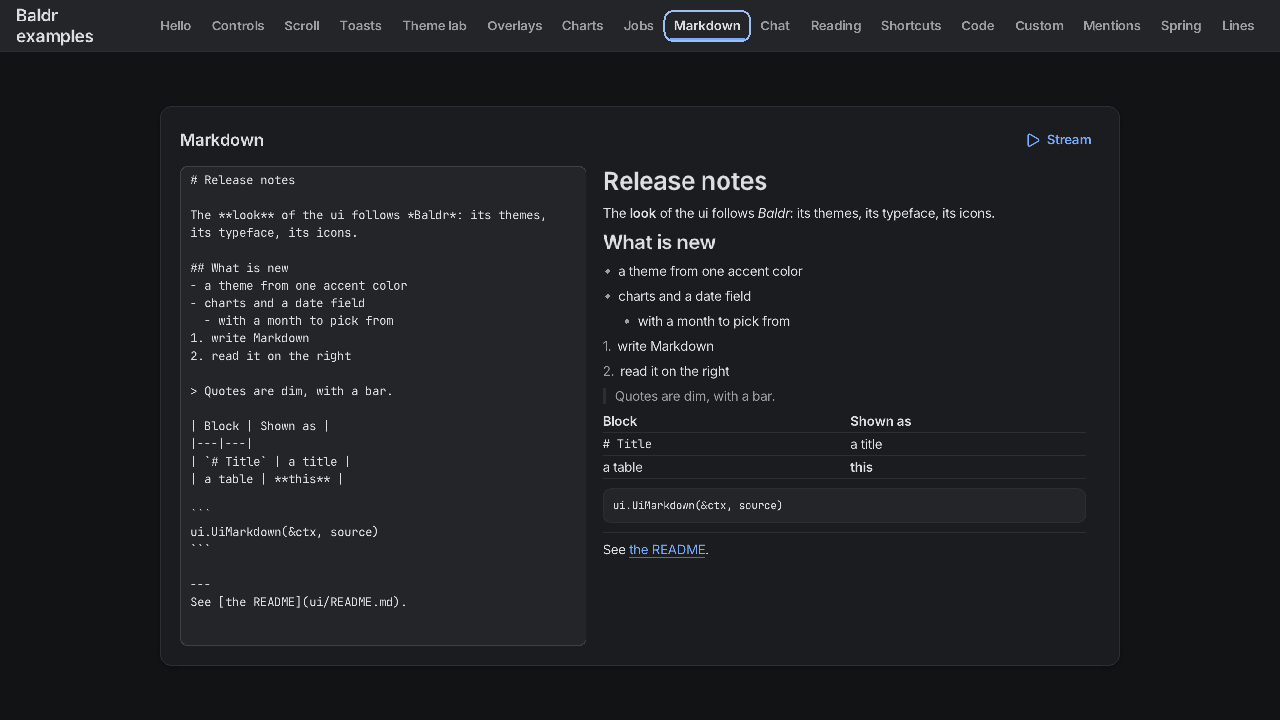
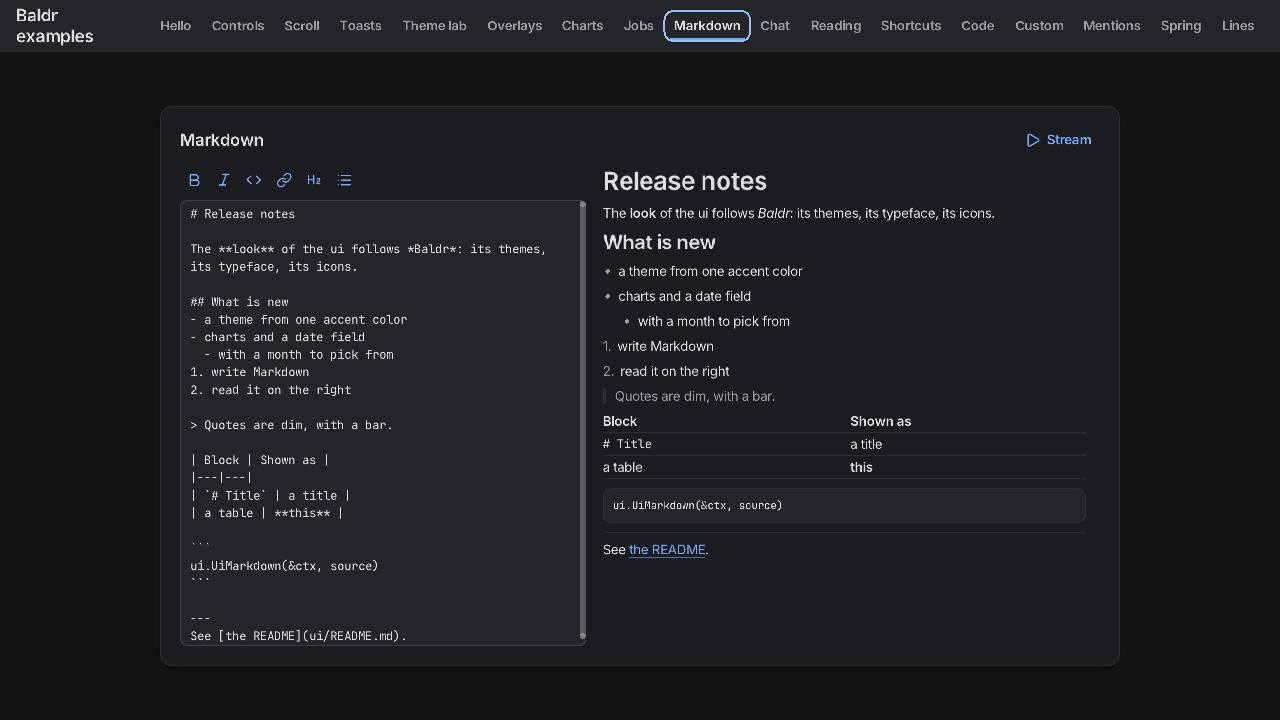
ui: editing commands for a text (UiTextWrap, UiTextLinePrefix), Baldr's rich editor as a toolbar
What the buttons of an editor do to the text of a text area or field from outside of it:
UiTextWrap puts marks around the selection (around the cursor when nothing is selected) and takes
them away when they are there, UiTextLinePrefix does the same at the start of the line of the
cursor, UiTextSelectionOf gives the selection. The widget gets the focus back and the change is a
step of its undo history.

The Markdown tab of the examples has the buttons Bold, Italic, Code, Link, Heading and List over
its source: the document is the Markdown text, the view next to it shows the result.

Claude-Session: https://claude.ai/code/session_01VmEee8L8hufaEg5kRznT4c

diff --git a/CLAUDE.md b/CLAUDE.md
@@ -98,7 +98,7 @@ Stale build outputs in a library folder (`demo.exe`, `*.pdb`, `log.txt`) are git
 
 ## ui library layout
 - Immediate mode ui, layout ported from Clay (MIT, credited in README). Core files: `context.odin` (Storage, UiInit/Begin/End, widget state in a `Static_Handle_Map` of `UI_STATES`), `layout.odin` (Clay port: sizing, floating, clip, text wrap), `widgets.odin` (`Ui*` widgets, containers are `if UiPanel(...) {}` blocks through `@(deferred_in)`), `widgets_more.odin` (collapsing/tree, radio, selectable, tabs, drag, inputs, plots, color, menus, modal, titled window), `style.odin` (`StyleKind`, `DrawInfo` with rect + value 0..1 + name + actual, `Style` table of user procs), `render.odin` (`UiRender` only calls the style procs, so the ui shares the batch of the frame), `nav.odin` (focus by direction and the default actions of Godot: `ui.Action` ACCEPT/CANCEL/FOCUS_NEXT/UP../HOME/END/PAGE_*, set in `Input.actions` by the glue and applied in `UiBegin`; `UiNavigate`, `UiActivate`, `UiCancelled`, `UiNavLink/UiNavBlock` overrides, scroll into view, input agnostic), `rounded.odin` (radius as part of the shortest side, polygon into a caller buffer), `resize.odin` (`UiSplit` / `UiSplitFirst` / `UiSplitSecond`: two sections and the handle between them, side by side or stacked, the proportion kept by the split; `UiWindowResizable`: a window resized by its edges and corners that keeps its own position and size; `HitKind.NO_FOCUS`, `Clip.cut`, `Decl.absolute`: a child out of the flow at an offset, not a root). Node graph: `graph.odin` (model: `Graph` with nodes, ports, links, zip ties in handle maps, rules, events with user pointers, `GraphOrder`, `GraphCompile` buffer plan), `graph_cable.odin` (routes, bounds, distance, crossings, tie geometry), `graph_style.odin` (`GraphStyle`: routing/bounds/distance/draw procs), `tree.odin` (`Tree` model + `UiTree` over the virtual list), `inspector.odin` (`UiInspector`: element tree, usage, picking), `virtual.odin` (`UiVirtual` list and `UiTable`: only the rows in view are declared), `timeline.odin` + `timeline_widgets.odin` + `timeline_style.odin` (`UiTimeline`: tracks and clips model, rules, events, ruler, playhead; style procs in `default_style/timeline.odin`), `timeline_curve.odin` (shapes of the curve between automation points), `timeline_automation.odin` (plan + block renderer for the audio thread), `timeline_points_edit.odin` (flip, mirror, rotate, repeat, stretch lives in timeline.odin), `timeline_history.odin` (undo and redo snapshots), `measure.odin` (cache of text sizes: every measure goes through `measureText`), `textarea.odin` (`UiTextArea`: rows, wrap, vertical movement), `accessibility.odin` (`UiAccessNodes`/`UiAccessDescribe`: the last frame as roles, names and states), `widgets_combo.odin` (`UiCombo`: a dropdown with a search field), `colorpicker.odin` (`UiColorPicker`, HSV and hex helpers; drawn by `default_style/color.odin`), `textundo.odin` (undo and redo of the focused text field and area), `textedit.odin` (selection, words, clipboard of the text field; `Input.modifiers`, actions COPY/CUT/PASTE/SELECT_ALL), `Decl.zoom` + `Style.zoom` (a container zoomed around its corner, `Painter.offset`), UI scale: `Painter.scale` in `default_style` (layout and styles in logical units, the glues scale drawing and divide the pointer; `InputPoll(scale)`), `widgets_audio.odin` (`UiKnob`, `UiFader`, `UiMeter`; style kinds KNOB/FADER/METER), `dock.odin` (`Dock` layout as plain data, `UiDock`: tabs and splits moved by dragging a tab), `graph_history.odin` (`GraphHistory`: undo and redo snapshots, `graph.serial`), `graph_layout.odin` (`GraphAutoLayout`), `graph_widgets.odin` (`UiGraph`, `UiGraphNode`, `UiGraphPin`, `UiGraphMinimap`, cuts and ties), `default_style/graph.odin`, `graph_test.odin`, `demo_common/demo_graph.odin`.
-- The look follows Baldr (github.com/BuLEEto/Baldr, zlib, credited in `default_style/default_style.odin` and the README; no code of it): `THEME_DARK` / `THEME_LIGHT` (the output of `ThemeFromAccent` for Baldr's blue: a test keeps the constants equal to the generator; the same pixels as its gallery pictures), `theme_make.odin` (`ThemeFromAccent(color, dark)`: a port of Baldr's `theme_from_seed`, marked as altered as zlib asks; `ColorFromOklch` / `ColorToOklch` / `ColorContrast`; colors that sRGB does not have lose chroma, they are not clamped; tests in `theme_make_test.odin`: `odin test ui/default_style`), `Face` (REGULAR, STRONG, ITALIC, MONO: the style sets `painter.face`, the glue draws Inter / JetBrains Mono), `painter.draw_icon` (Lucide through the `icons` library, `ui_default.LucideIcon(.SAVE)` is a `ui.Icon`; numbers from 0x1000), button variants by tag ("primary", "secondary", "outline", "ghost", "danger"), "thin" sliders and progress bars, texts by tag ("title", "dim", "mono": tags reach text elements, and a text is measured with its tags: `ctx.measure_tags` / `UiMeasureHasTag`, the measure cache keys on them, `ui_default.Measure` picks the face with `TagFace`), theme areas (`ThemeAreaSet(&painter, n, theme)` + `UiTagged(ctx, ThemeAreaTag(n))`: a part drawn in its own theme, through `Style.before_draw`, which `UiRender` calls before every draw command), `RingRounded` (focus rings are outlines), `Shadow`, `StateColor` / `StateWash`, `RowBox` (rows are selected in the soft accent so composed rows stay readable). `markdown.odin` (`UiMarkdown(ctx, source)`: headings, wrapped paragraphs, nested lists, quotes, fenced code, rules, tables (`MarkdownTableCell`), read block by block every frame with `MarkdownNext`, inline marks stripped by `MarkdownInline` into the frame text; paragraphs, list entries and quotes are rich text; tests in `markdown_test.odin`), `richtext.odin` (`UiRichText(ctx, name, source, scale, max_width)`: a wrapped paragraph with runs of styles from Markdown marks, lines broken by the widget for last frame's width, one text per run tagged "strong"/"italic"/"mono"/"link"; a link is an INTERACTIVE element, `UiRichText` and `UiMarkdown` return `(address, clicked)`; `RichNext` is the reader; tests in `richtext_test.odin`), `highlight.odin` (`TextHighlight` proc + `TextSpan`: `UiTextArea(..., highlight, highlight_user)` declares a text per span of a row, tagged `SYNTAX_*`; `HighlightCode` with a `HighlightLanguage`, `HIGHLIGHT_ODIN`; a `state` number per row carries block comments and raw strings, kept in the row cache of the area (`areaStates`); colors in `ui_default.SyntaxColor`), `complete.odin` (`UiComplete(ctx, area_name, buffer, &length, items, trigger)` declared BEFORE the `UiTextArea` or `UiTextField` of the same name: a list under the caret (`WidgetState.caret`) of the items that contain the word after the trigger, takes UP/DOWN/ENTER/ESCAPE out of `ctx.input`, rows are NO_FOCUS, sets `own_vertical` while open, pushes an undo step; `CompleteQuery`; tests in `complete_test.odin`), `select.odin` (texts inside of the tag `TEXT_SELECTABLE` are selected by press and drag over lines and texts: `ctx.select` holds two `SelectPoint`s (element index of the frame + byte), `selectAfterLayout` in `UiEnd` finds the line under the pointer and gathers the copy text, `selectLineCommand` in `textCommands` emits TEXT_SELECTION under a line; `UiTextSelected`, `UiTextSelectionClear`; tests in `select_test.odin`), `shortcut.odin` (`Chord`, `ChordFormat`, `UiShortcutField(ctx, name, &chord, pressed, key_name)`: listens after a click, takes the next key the program passes, Escape cancels, Backspace clears; drawn as a BUTTON with the tag "outline" / "primary"; tests in `shortcut_test.odin`), `date.odin` (`Date`, `DateWeekday` with Monday 0, `DateDaysInMonth`, `DateAddMonths`; `UiDateField`: a DROPDOWN box with `icon = .CALENDAR` and a popup of `DATE_CELL`s, the shown month kept in `WidgetState.cursor` as a count of months; `UiTimeField`: a `UiCombo` over the times of a day; tests in `date_test.odin`), `chart.odin` (`UiChart` with a caller owned `ChartView`: LINE, AREA, BAR, SCATTER, round axis steps, nearest point under the pointer, a click picks, the navigation walks; the view keeps the slices of the series, so they have to outlive the frame: keep them in the state, the compiler warns about a local array; look in `default_style/chart.odin` with Baldr's color blind safe palette; tests in `chart_test.odin`). `widgets_extra.odin`: `UiSwitch`, `UiBadge` (`Tone`), `UiChip`, `UiTag`, `UiAvatar`, `UiSegmented`, `UiBreadcrumbs`, `UiSpinner`, `UiTitle`, `UiLabelDim`, `UiCard`, `UiInteract`; `UiButton(..., icon = ...)`, `DrawInfo.icon`; their look in `default_style/extra.odin`, tests in `widgets_extra_test.odin`. `DEFAULT_METRICS` did not change (the scripts of the demos click at numbers of the layout); a text size is the height of its line box, so 16 is Inter at 13 px per em, the label size of Baldr.
+- The look follows Baldr (github.com/BuLEEto/Baldr, zlib, credited in `default_style/default_style.odin` and the README; no code of it): `THEME_DARK` / `THEME_LIGHT` (the output of `ThemeFromAccent` for Baldr's blue: a test keeps the constants equal to the generator; the same pixels as its gallery pictures), `theme_make.odin` (`ThemeFromAccent(color, dark)`: a port of Baldr's `theme_from_seed`, marked as altered as zlib asks; `ColorFromOklch` / `ColorToOklch` / `ColorContrast`; colors that sRGB does not have lose chroma, they are not clamped; tests in `theme_make_test.odin`: `odin test ui/default_style`), `Face` (REGULAR, STRONG, ITALIC, MONO: the style sets `painter.face`, the glue draws Inter / JetBrains Mono), `painter.draw_icon` (Lucide through the `icons` library, `ui_default.LucideIcon(.SAVE)` is a `ui.Icon`; numbers from 0x1000), button variants by tag ("primary", "secondary", "outline", "ghost", "danger"), "thin" sliders and progress bars, texts by tag ("title", "dim", "mono": tags reach text elements, and a text is measured with its tags: `ctx.measure_tags` / `UiMeasureHasTag`, the measure cache keys on them, `ui_default.Measure` picks the face with `TagFace`), theme areas (`ThemeAreaSet(&painter, n, theme)` + `UiTagged(ctx, ThemeAreaTag(n))`: a part drawn in its own theme, through `Style.before_draw`, which `UiRender` calls before every draw command), `RingRounded` (focus rings are outlines), `Shadow`, `StateColor` / `StateWash`, `RowBox` (rows are selected in the soft accent so composed rows stay readable). `markdown.odin` (`UiMarkdown(ctx, source)`: headings, wrapped paragraphs, nested lists, quotes, fenced code, rules, tables (`MarkdownTableCell`), read block by block every frame with `MarkdownNext`, inline marks stripped by `MarkdownInline` into the frame text; paragraphs, list entries and quotes are rich text; tests in `markdown_test.odin`), `richtext.odin` (`UiRichText(ctx, name, source, scale, max_width)`: a wrapped paragraph with runs of styles from Markdown marks, lines broken by the widget for last frame's width, one text per run tagged "strong"/"italic"/"mono"/"link"; a link is an INTERACTIVE element, `UiRichText` and `UiMarkdown` return `(address, clicked)`; `RichNext` is the reader; tests in `richtext_test.odin`), `highlight.odin` (`TextHighlight` proc + `TextSpan`: `UiTextArea(..., highlight, highlight_user)` declares a text per span of a row, tagged `SYNTAX_*`; `HighlightCode` with a `HighlightLanguage`, `HIGHLIGHT_ODIN`; a `state` number per row carries block comments and raw strings, kept in the row cache of the area (`areaStates`); colors in `ui_default.SyntaxColor`), `complete.odin` (`UiComplete(ctx, area_name, buffer, &length, items, trigger)` declared BEFORE the `UiTextArea` or `UiTextField` of the same name: a list under the caret (`WidgetState.caret`) of the items that contain the word after the trigger, takes UP/DOWN/ENTER/ESCAPE out of `ctx.input`, rows are NO_FOCUS, sets `own_vertical` while open, pushes an undo step; `CompleteQuery`; tests in `complete_test.odin`), `select.odin` (texts inside of the tag `TEXT_SELECTABLE` are selected by press and drag over lines and texts: `ctx.select` holds two `SelectPoint`s (element index of the frame + byte), `selectAfterLayout` in `UiEnd` finds the line under the pointer and gathers the copy text, `selectLineCommand` in `textCommands` emits TEXT_SELECTION under a line; `UiTextSelected`, `UiTextSelectionClear`; tests in `select_test.odin`), `textformat.odin` (`UiTextWrap`, `UiTextLinePrefix`, `UiTextSelectionOf`: the commands of an editor's buttons on the selection a text widget keeps, toggling, focus back to the widget, an undo step; tests in `textformat_test.odin`), `shortcut.odin` (`Chord`, `ChordFormat`, `UiShortcutField(ctx, name, &chord, pressed, key_name)`: listens after a click, takes the next key the program passes, Escape cancels, Backspace clears; drawn as a BUTTON with the tag "outline" / "primary"; tests in `shortcut_test.odin`), `date.odin` (`Date`, `DateWeekday` with Monday 0, `DateDaysInMonth`, `DateAddMonths`; `UiDateField`: a DROPDOWN box with `icon = .CALENDAR` and a popup of `DATE_CELL`s, the shown month kept in `WidgetState.cursor` as a count of months; `UiTimeField`: a `UiCombo` over the times of a day; tests in `date_test.odin`), `chart.odin` (`UiChart` with a caller owned `ChartView`: LINE, AREA, BAR, SCATTER, round axis steps, nearest point under the pointer, a click picks, the navigation walks; the view keeps the slices of the series, so they have to outlive the frame: keep them in the state, the compiler warns about a local array; look in `default_style/chart.odin` with Baldr's color blind safe palette; tests in `chart_test.odin`). `widgets_extra.odin`: `UiSwitch`, `UiBadge` (`Tone`), `UiChip`, `UiTag`, `UiAvatar`, `UiSegmented`, `UiBreadcrumbs`, `UiSpinner`, `UiTitle`, `UiLabelDim`, `UiCard`, `UiInteract`; `UiButton(..., icon = ...)`, `DrawInfo.icon`; their look in `default_style/extra.odin`, tests in `widgets_extra_test.odin`. `DEFAULT_METRICS` did not change (the scripts of the demos click at numbers of the layout); a text size is the height of its line box, so 16 is Inter at 13 px per em, the label size of Baldr.
 - `demo_common/demo_examples.odin`: Baldr's 01_hello, 04_controls, 03_scroll, 17_toasts, 02_theme_lab (the theme made from a picked accent) 05_overlays (a `UiMenu` inside of a button tag is drawn as that button and opens its popup under it) 21_charts, 09_jobs, 19_markdown and 32_chat (bubbles: panel tags "bubble" / "mine", `UiRichText(..., max_width)`, `UiScrollSet(c, id, 1e9)` for some frames follows the end) , 33_reading (a page in a theme area), 20_shortcuts, 07_code and 37_custom (a widget made in the demo: `UiInteract` + a CUSTOM draw proc with `ui_default.PainterOf(ctx)` + `UiNavBlock`), 34_mentions and 35_spring (`UiDragRest(ctx, kind, seconds)` in dragdrop.odin: a drag stood still over the widget; a script drags between found places with `kit.MoveAt(&target)` + `MouseDownStep` / `MouseUpStep`, and sets a long delay before a Capture because frame times differ) and 28_lines (`default_style/lines.odin`: `LineDashed`, `PathDashed` with a phase that goes on around corners, `PathLines`, `RectCorners`) remade, a tab each (a picture that shows a time or a rate gets fixed numbers from a Check before its Capture: frame times differ between machines) (a toast is a floating element with the tag "popup" and `UiInteract`). A check of a script must not depend on where a text wraps: the fonts of the backends have other widths (run the scripts in the windows too, `demo_kit/tool/captures -- --karl2d ui`, not only headless). A Capture shares its frame with the step after it: put a Wait behind it. A picture with a caret pins the blink first (`state.app.ctx.time = 0` in a Check). An id the script needs from inside a loop or a nested scope is stored while declaring (`state.pick_id = ui.UiId(c, name)`): `UiIdPath` cannot name an element under an `IdFromIndex` parent.
 - `demo_common/demo_gallery.odin`: the first page of Baldr's gallery remade (dark, light, a page of all icons). Its script finds widgets by `ui.UiElementRect` and clicks with `kit.ClickAt(&target)`: use that for a layout that depends on text widths. Fonts in the kit: `kit.FontLoad(ctx, bytes, size, glyph_count, first_glyph)`, with `DEMO_VECTOR_TEXT` a kit font is a face of the kit's text system (`font.ATLAS_FACES` is 8: 0..3 the family, 4..7 for a program).
 - `default_style/` (package `ui_default`: `Painter` + default style), `kit/` (Painter + input over demo_kit, used by the demos: loads the fonts once per backend), `glue_raylib/`, `glue_karl2d/` (Painter + `InputPoll`, `Fonts` + `FontsLoad` + `PainterUseFonts` / `PainterUseVectorFonts`), `demo_common/` (widgets, layout, styles, navigation demos and `demo_imgui`, the layout of Dear ImGui's demo window, with scripts; ImGui is the demo it follows). Scripts click at fixed coordinates computed from the layout (window at (40,40), padding 10, controls 28 high): widths must be `Fixed` so fonts do not move them.

diff --git a/ui/README.md b/ui/README.md
@@ -179,7 +179,7 @@ a menu that opens from a button: `ui.UiMenu` inside of a button tag, tooltips, a
 same numbers as a line, an area, bars and a scatter with `ui.UiChart`) and `09_jobs` (three downloads with their progress while the page stays live: the original
 runs each on a thread that posts messages, here a download is a number that grows with the time of the frame) and `19_markdown` (a text in Markdown and how it reads, side
 by side, with `ui.UiTextArea` and `ui.UiMarkdown`; the original is an editor that shows the styles while one types; its Stream button is `26_reply`: the note shown
-as it arrives, some characters a frame) and `32_chat` with the bubbles of `29_styled_text`
+as it arrives, some characters a frame; the buttons over the source are `08_rich`: Bold, Italic, Code, Link, Heading and List write their marks into the text) and `32_chat` with the bubbles of `29_styled_text`
 (bubbles as wide as their text with styles inside, a list that stays at its newest message, a field that sends; the messages are one selectable text, which is
 `27_conversation`; the panel tags "bubble" and "mine" of the default style) and `33_reading` (a page in Paper, Sepia, Dusk or Night with its
 controls in the same colors, inside of a window that keeps its theme: a theme area) `20_shortcuts` (shortcuts that are set by pressing them) `07_code` (the text area with a highlighter for Odin) and `37_custom` (a star rating made in the demo: the pattern for a widget of one's own, with
@@ -318,6 +318,12 @@ default style has the colors of the tags `ui.SYNTAX_KEYWORD`, `_TYPE`, `_STRING`
 look like C or Odin by a `HighlightLanguage` (keywords, types, the marks of comments, the quote of raw strings). What goes over several lines (a block comment, nested
 in Odin, a raw string) is carried from row to row in a `state` number: the area runs the highlighter over all rows once when the text changed and keeps the state of every
 row with its cached rows, so a frame only asks for the rows in view. A string in quotes ends with its row. Nothing is allocated; at most `AREA_SPANS` (96) spans a row.
+
+## Editing commands for a text
+`textformat.odin`: what the buttons of an editor do to the text of a `ui.UiTextArea` or `ui.UiTextField` from outside of it. `ui.UiTextWrap(&ctx, id, buffer[:], &length,
+"**", "**")` puts marks around the selection (around the cursor when nothing is selected, the cursor between them) and takes them away when they are already there;
+`ui.UiTextLinePrefix(&ctx, id, buffer[:], &length, "- ")` does the same with a mark at the start of the line of the cursor; `ui.UiTextSelectionOf(&ctx, id)` gives the
+selection. The widget gets the focus back, so the typing goes on, and the change is a step of its undo history.
 
 ## Selecting text that is read
 `select.odin`: everything declared inside of `ui.UiTagged(&ctx, ui.TEXT_SELECTABLE)` (labels, wrapped texts, the paragraphs of rich text and Markdown) is one text to the

diff --git a/ui/TODO.md b/ui/TODO.md
@@ -42,6 +42,7 @@ Tick an item when it is done and verified (tests pass, committed).
 - [x] A text is measured with the tags it is drawn with (a title in the strong face, code in the code face): `ctx.measure_tags`, `UiMeasureHasTag`
 - [x] Rich text: `UiRichText`, used by `UiMarkdown` (strong, italic, code, links)
 - [x] Tables in `UiMarkdown`
+- [x] Editing commands for a text (`UiTextWrap`, `UiTextLinePrefix`) and Baldr's 08_rich as a toolbar over the Markdown source
 - [x] Dashed lines and paths for overlays (`default_style/lines.odin`) and Baldr's 28_lines
 - [x] Text that is read can be selected and copied (`TEXT_SELECTABLE`, select.odin) and Baldr's 27_conversation in the chat example
 - [x] Selection of read text: a word by double click, the text by a third click
@@ -56,7 +57,7 @@ Tick an item when it is done and verified (tests pass, committed).
 - [x] A part of the ui in a theme of its own (`ThemeAreaSet`, `Style.before_draw`) and Baldr's 33_reading
 - [x] Links of a rich text can be clicked (`address, clicked := UiRichText(...)`, the same from `UiMarkdown`)
 - [x] (was) Runs of several styles in one wrapped text (bold, italic, code and links inside of a paragraph: the measure proc needs the face, the wrap has to break between runs); `UiMarkdown` would then draw emphasis instead of only taking its marks away
-- [ ] Baldr examples that are still to be remade with this library (references/Baldr/examples): 08_rich (a rich text editor),  the desktop shell ones (taskbar, dock, applets, tray) need a window system and are out of scope
+- [ ] Baldr examples that are still to be remade with this library (references/Baldr/examples): 25_terminal (a grid of cells), 31_emoji (needs a color emoji font),  the desktop shell ones (taskbar, dock, applets, tray) need a window system and are out of scope
 - [ ] (later) Timeline: SIMD for the block renderer (ramps and fills with 8 or 16 lanes; the compiler may vectorize the loops already: check the assembly), a plan that several tracks share the cursor search of
 - [ ] (low priority) Right-to-left text (needs a font with the script and shaping for Arabic: measuring, wrapping, caret and selection all change)
 - [x] Virtual list and table (`UiVirtual`, `UiTable`): only the rows in view are declared, selection by pointer and keys, sortable header, resizable columns; demo with 100 000 rows and a screenshot
